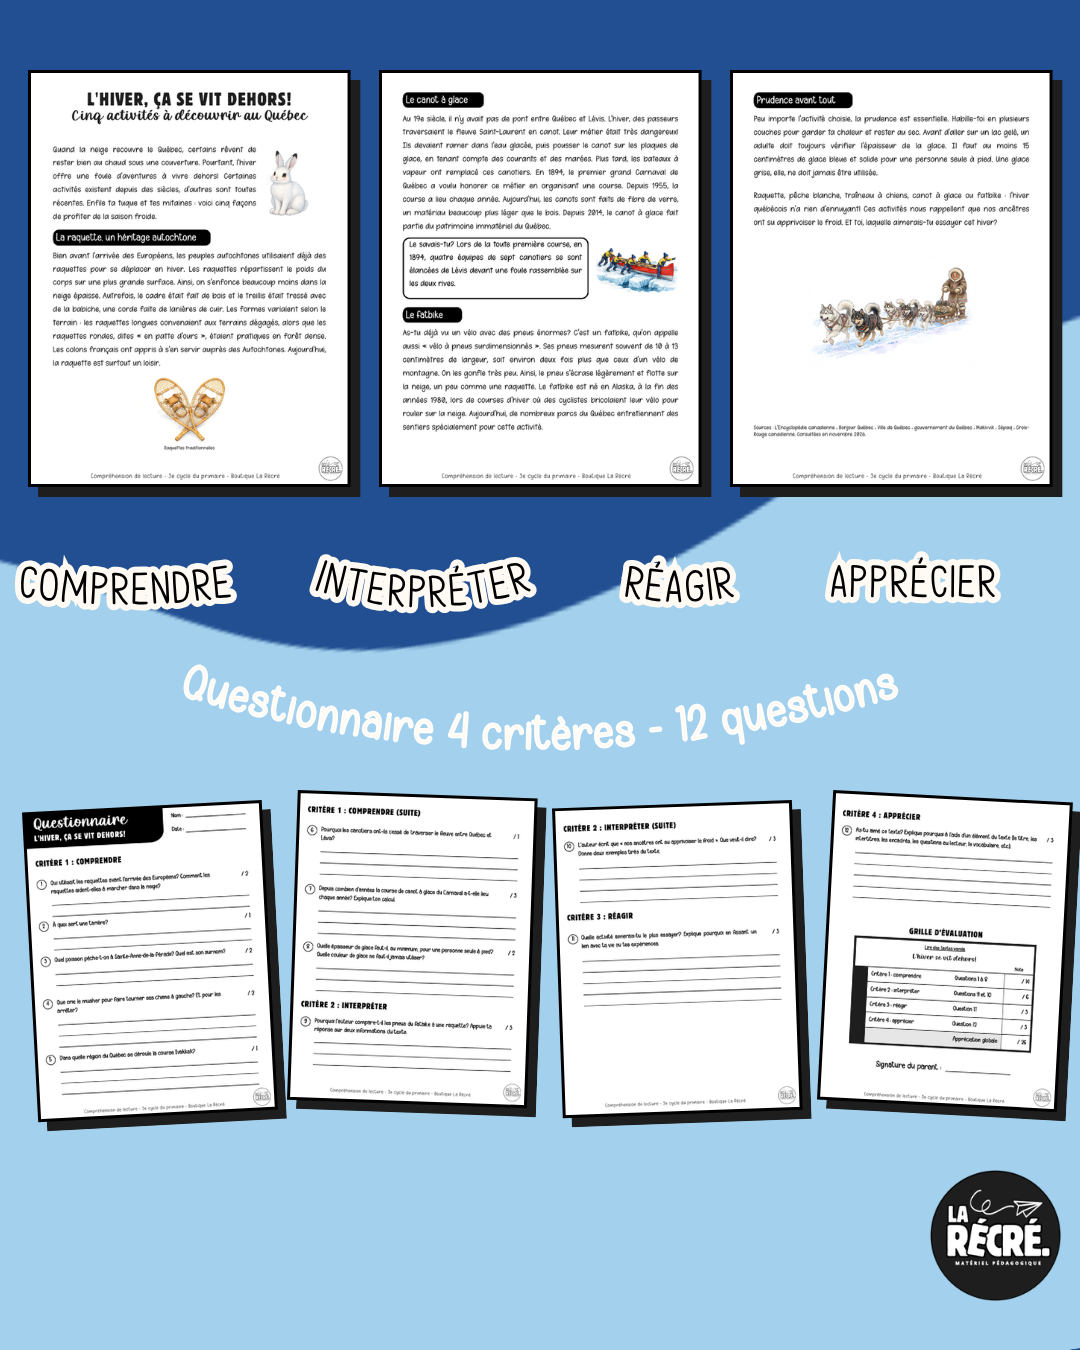
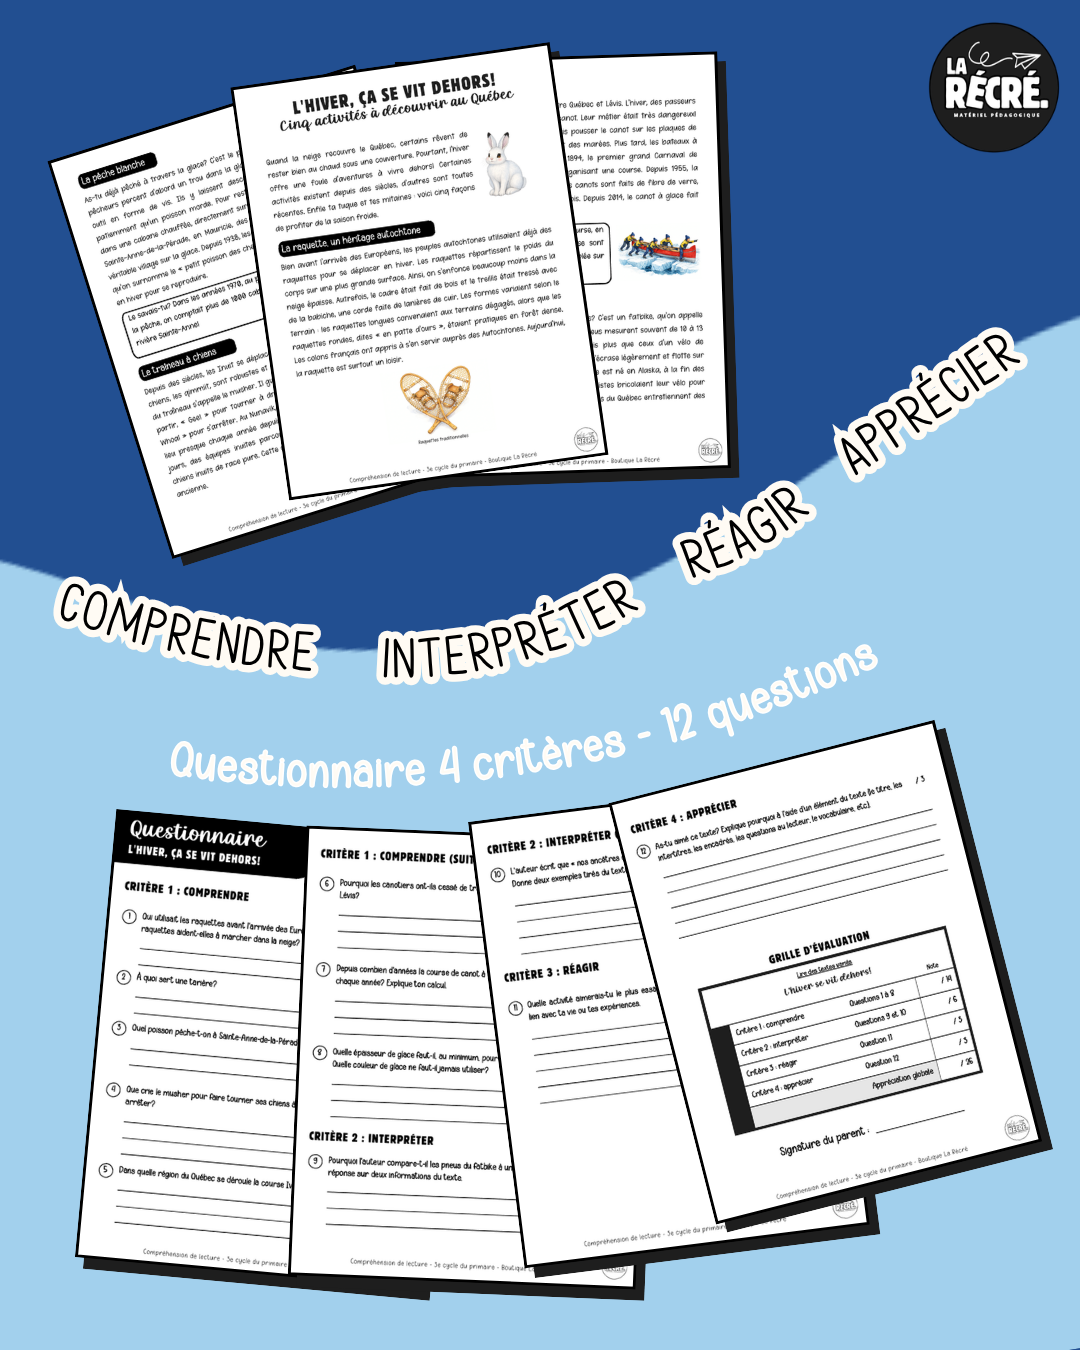
Activités d'hiver (3e cycle) : aperçu boutique sur le modèle des autres compréhensions de lecture
Claude-Session: https://claude.ai/code/session_01NiTaWGpjQjB6yeVp3yNw7H

diff --git a/ressources/comprehension-lecture-activites-hiver-3e-cycle/canva.md b/ressources/comprehension-lecture-activites-hiver-3e-cycle/canva.md
@@ -7,7 +7,7 @@ Dossier Canva : https://www.canva.com/folder/FAHcIKkzJKo
 | Texte informatif (4 pages, sources en page 4) | https://www.canva.com/design/DAHcH7r0spw/edit |
 | Questionnaire (4 pages, grille sur 26) | https://www.canva.com/design/DAHcH0vujBo/edit |
 | Corrigé (4 pages, réponses en rouge) | https://www.canva.com/design/DAHcH7lBJFs/edit |
-| Aperçu boutique (2 images 1080 × 1350) | https://www.canva.com/design/DAHcJHuzawc/edit (images : `apercus/`) |
+| Aperçu boutique (2 images 1080 × 1350) | https://www.canva.com/design/DAHcJBr6OZM/edit (images : `apercus/`) |
 
 Notes :
 - Ces trois designs sont des copies du texte, du questionnaire et du corrigé des Canadiens de Montréal (DAHb9nv_bZg, DAHb9lYaFSg, DAHb9uQ2Gdo). Les originaux n'ont pas été modifiés.
@@ -24,7 +24,5 @@ Fichiers :
 - `questionnaire-activites-hiver.pdf` (4 pages, Lettre)
 - `corrige-activites-hiver.pdf` (4 pages, Lettre)
 
-Aperçu boutique : copie de l'aperçu des Canadiens de Montréal (l'original n'a pas été modifié), avec une nouvelle disposition.
-- Image 1 : grande page 1 du texte à gauche, page 2 inclinée à droite, page 1 du corrigé en bas à droite, traîneau à chiens en haut à gauche, vagues bleu glacier.
-- Image 2 : pages 1, 3 et 4 du texte alignées en haut, les 4 critères sur une ligne, les 4 pages du questionnaire en rangée en bas.
-- La pastille « 3e cycle » garde le fond rouge du modèle (effet de texte que l'outil ne peut pas modifier) ; on peut la changer à la main dans Canva.
+Aperçu boutique : copie de l'aperçu des Canadiens de Montréal (l'original n'a pas été modifié), même disposition ; seules les pages, l'illustration (traîneau à chiens), le sous-titre et les couleurs des vagues (bleu glacier) changent. La pastille « 3e cycle » garde son fond rouge (effet de texte du modèle).
+DAHcJHuzawc est un premier essai avec une autre disposition, refusé : il peut être supprimé.
